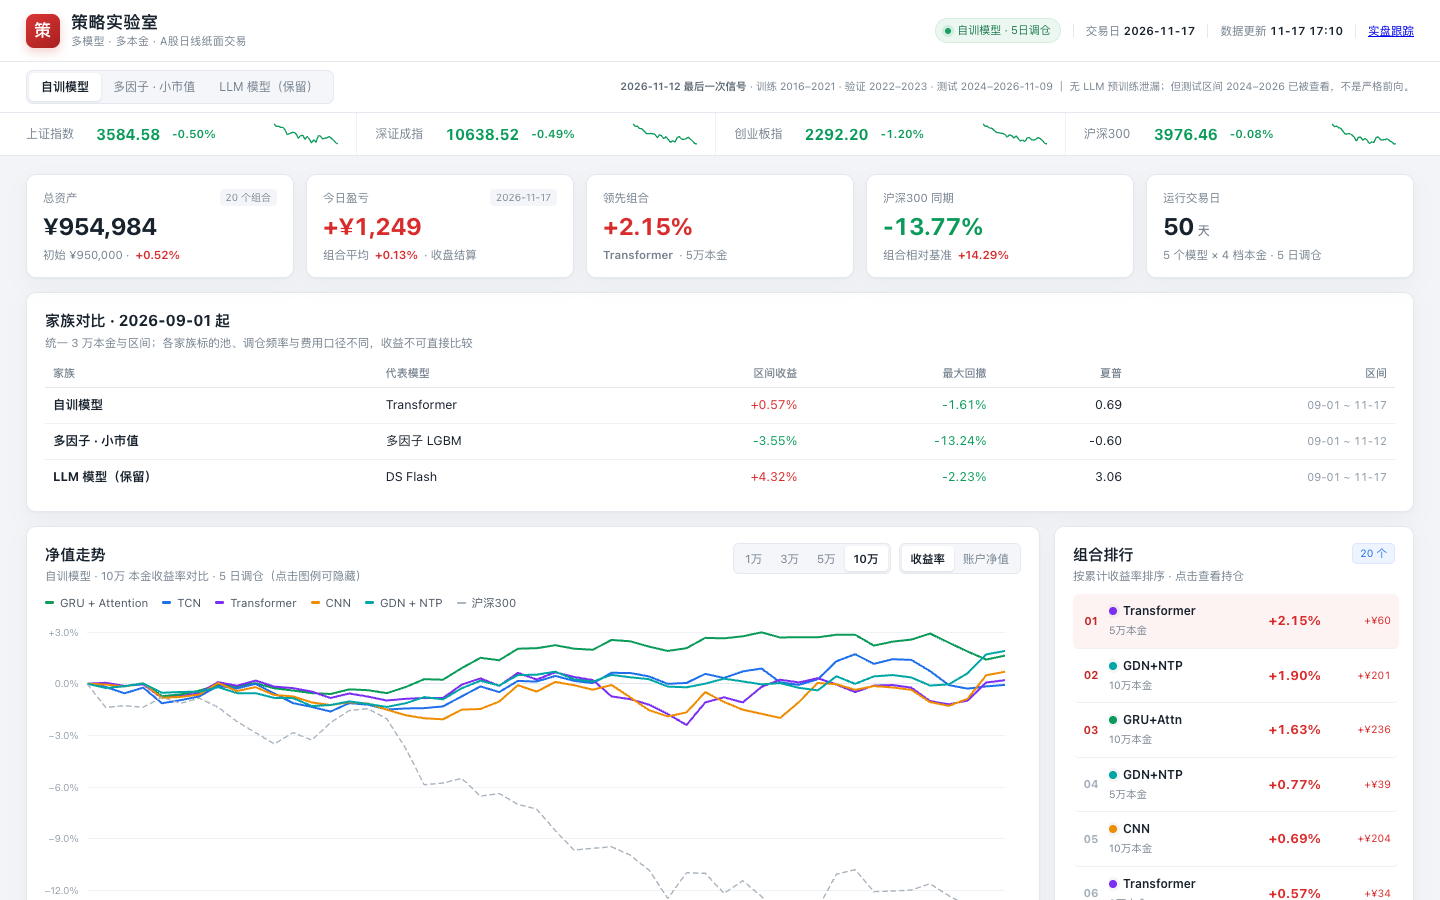
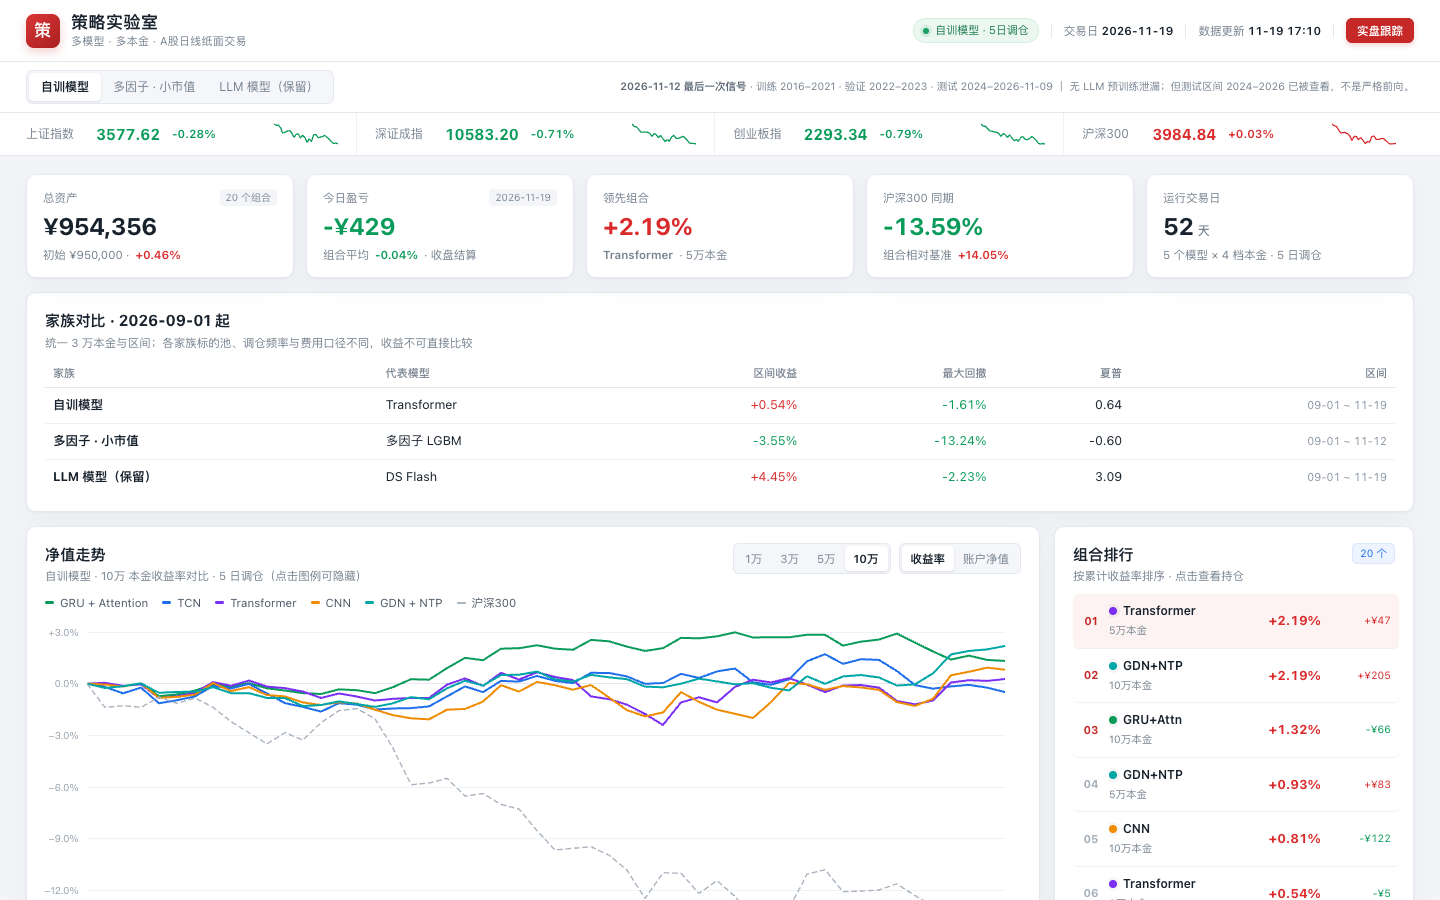
Make the live-tracking entry a prominent button; keep live page across deploys
- dashboard top bar: red 实盘跟踪 button instead of a subtle text link
- live.py deploy: mirror live.html/live.json into the deploy worktree so the
  daily deploy.sh (rsync --delete web/) does not remove them (the page 404'd
  after the 15:35 deploy)
- refresh the after screenshot

diff --git a/web/assets/styles.css b/web/assets/styles.css
@@ -62,8 +62,12 @@ button { font: inherit; color: inherit; }
 .top-sep { width: 1px; height: 14px; background: var(--line); }
 .status-chip { display: inline-flex; align-items: center; gap: 6px; color: #1d7a4f; background: #ebf7f0; border: 1px solid #d5eee0; padding: 3px 9px; border-radius: 99px; font-size: 11px; }
 .status-chip i { width: 6px; height: 6px; border-radius: 50%; background: #19a063; box-shadow: 0 0 0 3px rgba(25,160,99,.12); }
-.live-link { color: var(--accent); font-weight: 600; text-decoration: none; }
-.live-link:hover { text-decoration: underline; }
+.live-link {
+  color: #fff; background: var(--accent); font-weight: 600; text-decoration: none;
+  padding: 4px 11px; border-radius: 6px; box-shadow: 0 2px 6px rgba(198, 40, 40, .22);
+  display: inline-flex; align-items: center; gap: 4px;
+}
+.live-link:hover { background: #a91f1f; text-decoration: none; }
 
 /* family switch */
 .familybar {

diff --git a/paper_trader/live.py b/paper_trader/live.py
@@ -13,6 +13,7 @@ from __future__ import annotations
 import argparse
 import json
 import os
+import shutil
 import subprocess
 import sys
 import time
@@ -28,6 +29,10 @@ LEDGER_PATH = LIVE_DIR / "ledger.json"
 LIVE_JSON = ROOT / "web" / "live.json"
 LIVE_HTML = ROOT / "web" / "live.html"
 DEPLOY_ENV = Path.home() / ".config" / "paper-trader" / "deploy.env"
+# 日常 deploy.sh 会 rsync --delete 这个工作区的 web/，把 live 页也放进去，避免被删掉
+DEPLOY_WEB = Path(os.environ.get(
+    "PAPER_WEB_DIR", Path.home() / ".superagent-work" / "paper-trading-platform-fe9b2dd99152" / "web"
+))
 
 CAPITAL = 30000.0
 BUY_FEE = 0.001
@@ -232,6 +237,13 @@ def deploy() -> int:
     remote_dir = "/srv/paper/%s" % token
     for path in (LIVE_HTML, LIVE_JSON):
         subprocess.run(["rsync", "-az", str(path), "%s:%s/" % (host, remote_dir)], check=True)
+    # 同步到部署工作区，让每日 deploy.sh（rsync --delete web/）保留 live 页
+    if DEPLOY_WEB.is_dir():
+        for path in (LIVE_HTML, LIVE_JSON):
+            try:
+                shutil.copy2(path, DEPLOY_WEB / path.name)
+            except OSError:
+                pass
     subprocess.run(["ssh", "-o", "ConnectTimeout=10", host, "chmod a+r %s/live.html %s/live.json" % (remote_dir, remote_dir)], check=True)
     domain = env.get("PAPER_DOMAIN", "")
     print("https://%s/%s/live.html" % (domain, token))
